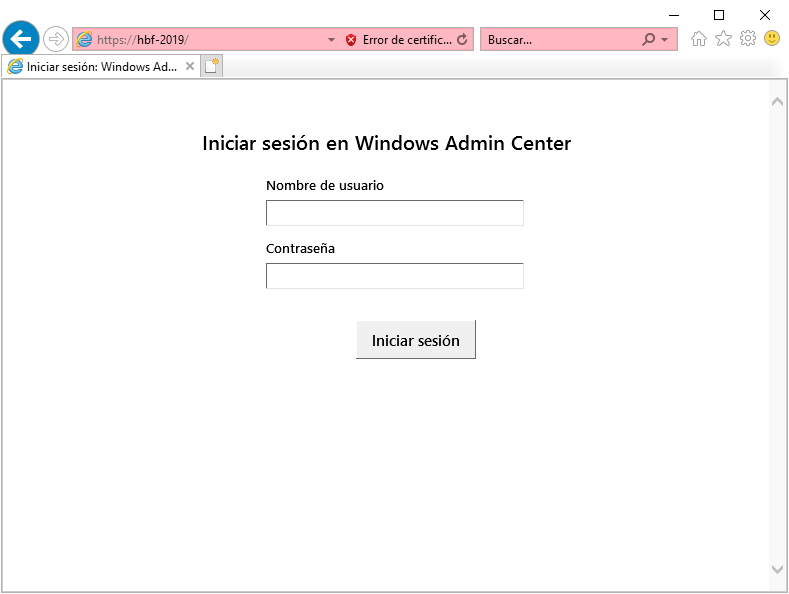
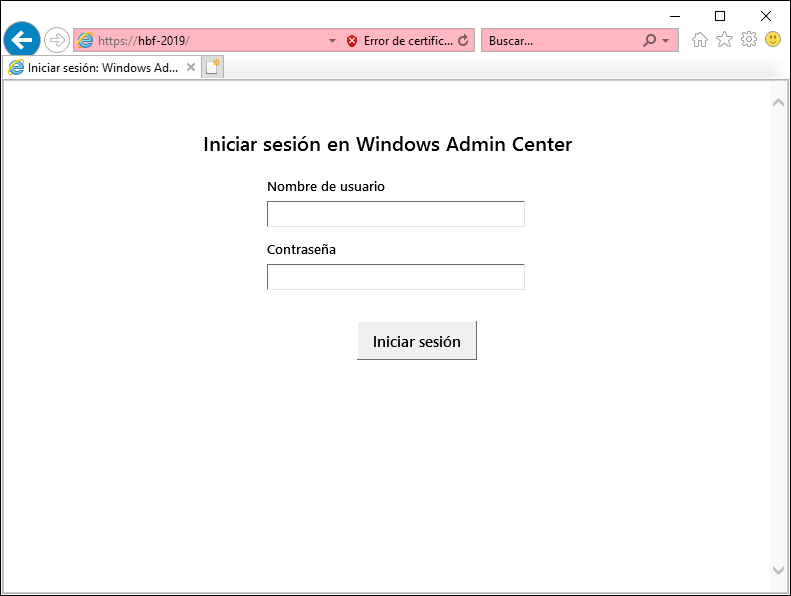
pr0201

diff --git a/ut02/pr0201/pr0201.md b/ut02/pr0201/pr0201.md
@@ -295,7 +295,7 @@ A partir de ahora, trabajaremos con el servidor de entorno gráfico.
 Descargamos **Windows Admin Center** desde la página oficial:  
 [https://www.microsoft.com/es-es/windows-server/windows-admin-center](https://www.microsoft.com/es-es/windows-server/windows-admin-center)
 
-Pero antes, tenemos que deshabilitar la **Configuración de seguridad mejorada de IE**. Para ello, desde el Administrador del servidor vamos a Servidor local y buscamos el apartado mencionado, veremos que está activado, clicamos y seleccionamos todo en **Desactivado**.
+Pero antes, tenemos que deshabilitar la **Configuración de seguridad mejorada de IE**. Para ello, desde el Administrador del servidor vamos a Servidor local y en el apartado de **Propiedades** buscamos lo mencionado, en el que veremos que está activado, clicamos y seleccionamos todo en **Desactivado**.
 
 ![desactivar](imagenes/38.png)
 
@@ -315,15 +315,14 @@ Veremos al final de la instalación, que Windows Admin Center va a utilizar el p
 
 ![sesion](imagenes/44.png)
 
-Si vemos esta página, es que se ha instalado correctamente.
+Si vemos esta página, es que se ha instalado correctamente. Lo malo de llegar aquí es que **Internet Explorer** ya no tiene soporte y tendríamos que descargar otro navegador, en mi caso he instalado **Google Chrome**. Cuando esté instalado, pondremos el mismo enlace y clicamos en `Avanzado > Acceder a hbf-2019 (sitio no seguro)`. Ahora que ya tenemos la página de inicio de sesión, iniciamos con la cuenta del usuario del servidor.
 
+![sesion](imagenes/45.png)
 
+Cuando hayamos iniciado sesión, ya veremos el menú principal de **Windows Admin Center**.
 
+![principal](imagenes/46.png)
 
-
-
-
-
-
+![general](imagenes/47.png)
 
 [Volver a UT02](../index.md)
